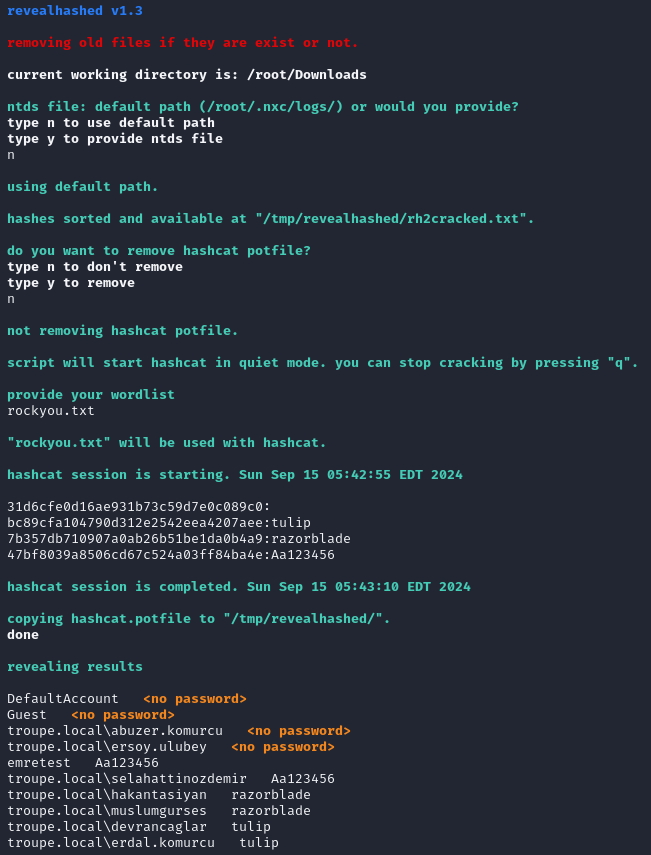
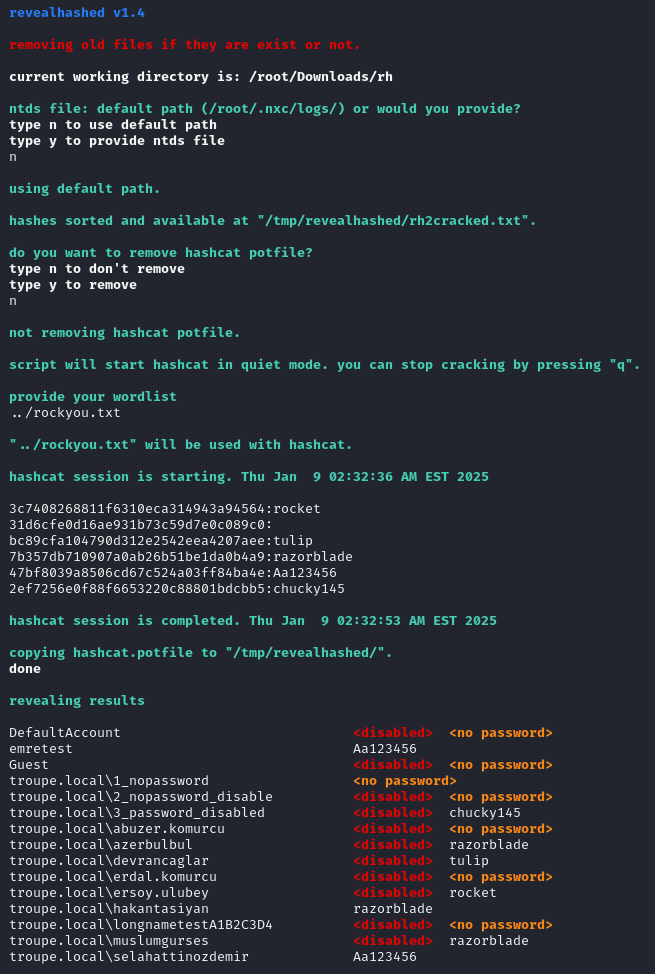
v1.4
qol features:
-output aligned to right for better display
-disabled account indicator

diff --git a/README.md b/README.md
@@ -2,7 +2,7 @@
 revealhashed is a semi-automated bash script to automatically match username-hash-password respectively.
 
 ## how to use
--> it's an interactive script so i'm sure you will get it. you can find an example ntds dump in the repo.
+-> it's an interactive script so i'm sure you will get it. you can find example ntds dumps in the repo.
 
 ## example output
 ![](https://raw.githubusercontent.com/crosscutsaw/revealhashed/main/f1.PNG)
